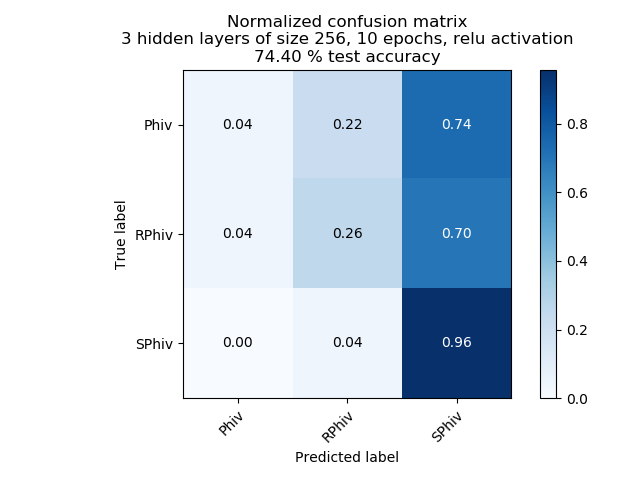
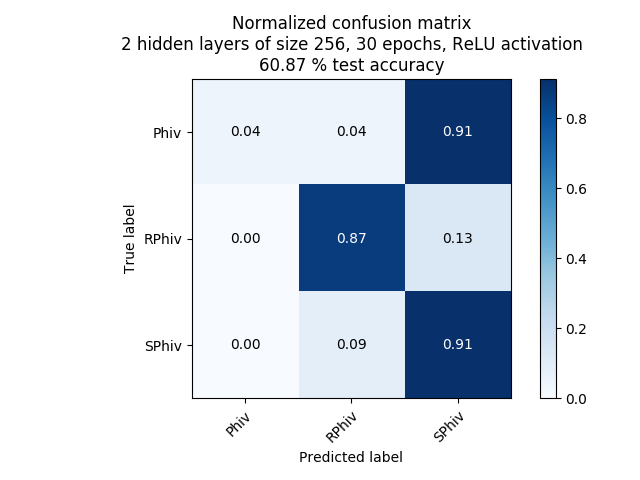
Ported neural network to torch, updated confusion matrices

diff --git a/pycode/neural_net.py b/pycode/neural_net.py
@@ -1,7 +1,3 @@
-from keras.models import Sequential
-from keras.layers import Activation
-from keras.optimizers import SGD
-from keras.layers import Dense
 from keras.utils import np_utils
 
 from sklearn.preprocessing import LabelEncoder
@@ -18,6 +14,16 @@ from collections import defaultdict
 import numpy as np
 import pandas as pd
 import matplotlib.pyplot as plt
+import gc
+
+import torch
+import torch.nn as nn
+import torch.optim as optim
+
+cuda_device = 0
+
+device_str = "cuda:{}".format(cuda_device) if torch.cuda.is_available() else "cpu"
+device = torch.device(device_str)
 
 prefix = 'cchfl'
 seq_len = 8084
@@ -26,16 +32,24 @@ input_dir = '../hivdata'
 input_dir = os.path.abspath(input_dir)
 model_output_path = '../models'
 
-types = [
+def seq_to_vec(seq):
+    vec = [onehot_dict[x] for x in seq]
+    return [x for subvec in vec for x in subvec]
+
+def load_data_file(path):
+    with open(path, 'r') as fh:
+        results = fh.read().strip().split('\n')[1:]
+    results = [x.split(',') for x in results]
+    results = map(lambda l: [x[:1] for x in l], results)
+    results = [seq_to_vec(x) for x in results]
+    return results
+
+all_types = [
     'SPhiv',
     'RPhiv',
     'Phiv',
     'LTNPhiv',
 ]
-
-model_output_path = '../models/{}'.format('_'.join(types))
-if not os.path.exists(model_output_path):
-    os.makedirs(model_output_path)
 
 f_pat = r'{}_[0-9]+-[0-9]+_{}\.dot'.format(prefix, cutoff)
 dotpattern = r'P([0-9]+) -> P([0-9]+)'
@@ -50,184 +64,173 @@ for i, x in enumerate(nucleotides):
     vec[i] = 1
     onehot_dict[x] = vec
 
-def seq_to_vec(seq):
-    vec = [onehot_dict[x] for x in seq]
-    return [x for subvec in vec for x in subvec]
+for i in range(2, len(all_types) + 1):
+    types = all_types[:i]
 
-def load_data_file(path):
-    with open(path, 'r') as fh:
-        results = fh.read().strip().split('\n')[1:]
-    results = [x.split(',') for x in results]
-    results = map(lambda l: [x[:1] for x in l], results)
-    results = [seq_to_vec(x) for x in results]
-    return results
+    model_output_path = '../models/{}'.format('_'.join(types))
+    if not os.path.exists(model_output_path):
+        os.makedirs(model_output_path)
 
-encoder = LabelEncoder()
+    encoder = LabelEncoder()
 
-train_items = []
-train_labels = []
-for type in types:
-    fpath = os.path.join(input_dir, '{}_train.dat'.format(type))
-    train_items.append(load_data_file(fpath))
-    train_labels.append([type] * len(train_items[-1]))
+    train_items = []
+    train_labels = []
+    for type in types:
+        fpath = os.path.join(input_dir, '{}_train.dat'.format(type))
+        train_items.append(load_data_file(fpath))
+        train_labels.append([type] * len(train_items[-1]))
 
-length = min([len(x) for x in train_items])
-for i in range(len(train_items)):
-    train_items[i] = train_items[i][:length]
-    train_labels[i] = train_labels[i][:length]
+    length = min([len(x) for x in train_items])
+    for i in range(len(train_items)):
+        train_items[i] = train_items[i][:length]
+        train_labels[i] = train_labels[i][:length]
 
-train_items = np.array([x for sub in train_items for x in sub])
-train_labels = [x for sub in train_labels for x in sub]
-train_labels = encoder.fit_transform(train_labels)
-train_labels = np.array(np_utils.to_categorical(train_labels))
+    train_items = np.array([x for sub in train_items for x in sub])
+    train_labels = [x for sub in train_labels for x in sub]
+    train_labels = encoder.fit_transform(train_labels)
+    # train_labels = np.array(np_utils.to_categorical(train_labels))
 
-test_items = []
-test_labels = []
-for type in types:
-    fpath = os.path.join(input_dir, '{}_test.dat'.format(type))
-    test_items.append(load_data_file(fpath))
-    test_labels.append([type] * len(test_items[-1]))
+    test_items = []
+    test_labels = []
+    for type in types:
+        fpath = os.path.join(input_dir, '{}_test.dat'.format(type))
+        test_items.append(load_data_file(fpath))
+        test_labels.append([type] * len(test_items[-1]))
 
-length = min([len(x) for x in test_items])
-for i in range(len(test_items)):
-    test_items[i] = test_items[i][:length]
-    test_labels[i] = test_labels[i][:length]
+    length = min([len(x) for x in test_items])
+    for i in range(len(test_items)):
+        test_items[i] = test_items[i][:length]
+        test_labels[i] = test_labels[i][:length]
 
-test_items = np.array([x for sub in test_items for x in sub])
-test_labels = [x for sub in test_labels for x in sub]
-test_labels = encoder.transform(test_labels)
-test_labels = np.array(np_utils.to_categorical(test_labels))
+    test_items = np.array([x for sub in test_items for x in sub])
+    test_labels = [x for sub in test_labels for x in sub]
+    test_labels = encoder.transform(test_labels)
+    # test_labels = np.array(np_utils.to_categorical(test_labels))
 
-feature_dict = defaultdict(list)
+    feature_dict = defaultdict(list)
 
-edges = set()
-nodes = set()
+    edges = set()
+    nodes = set()
 
-eseq_len = seq_len * len(nucleotides)
+    eseq_len = seq_len * len(nucleotides)
 
-orig_wt_matrix = np.zeros((eseq_len, eseq_len))
+    orig_wt_matrix = np.zeros((eseq_len, eseq_len))
 
-# for fname in files:
-#     match = re.match(pklpattern, fname)
-#     if match:
-#         with open(os.path.join(root, fname), 'rb') as fh:
-#             TR = pickle.load(fh)
-#             # print(TR)
-#             # print(TR.nodes)
-#             # print("Feature")
-#             # print(TR.feature)
-#             # print(TR.feature[1])
-#             # print(TR.TREE_LEAF)
-#             # print(TR.children_right)
-#             # print(TR.children_left)
-#             # print(TR.edge_cond_)
-#             # print(type(TR.edge_cond_))
-#             # print(TR.ACC_)
-#             # print(TR.ACCx_)
-#             result = [int(TR.feature[x][1:]) for x in TR.feature if not TR.TREE_LEAF[x]]
-#             for x in result:
-#                 orig_wt_matrix[int(match.group(1)[1:])][x] = 1
+    activations = [nn.ReLU, nn.Sigmoid]
+    activation_labels = ["ReLU", "Sigmoid"]
+    layer_sizes = [256, 512, 768, 1024, 2048]
+    num_hiddens = [1,2,3,4,5, 6]
+    num_epochs = [2, 5, 7, 10, 20, 30]
+    # layer_sizes = [256]
+    # num_hiddens = [2]
+    # num_epochs = [5]
 
-activations = ["relu", "sigmoid"]
-layer_sizes = [256, 512, 768, 1024]
-num_hiddens = [1,2,3,4,5]
-num_epochs = [2, 5, 7, 10]
-# layer_sizes = [256]
-# num_hiddens = [2]
-# num_epochs = [5]
+    results = []
 
-results = []
+    class_labels = encoder.classes_
 
-class_labels = encoder.classes_
+    trainX = torch.Tensor(train_items).to(device)
+    trainY = torch.Tensor(train_labels).to(device, dtype=torch.long)
 
-for epochs in num_epochs:
-    for activation_func in activations:
-        for layer_size in layer_sizes:
-            for num_hidden in num_hiddens:
-                model = Sequential()
-                model.add(Dense(layer_size, input_dim=eseq_len, activation=activation_func))
-                for i in range(num_hidden):
-                    model.add(Dense(layer_size, activation=activation_func))
-                model.add(Dense(len(class_labels)))
-                model.add(Activation('softmax'))
+    testX = torch.Tensor(test_items).to(device)
+    testY = torch.Tensor(test_labels).to(device, dtype=torch.long)
 
-                sgd = SGD(lr=0.01)
-                model.compile(loss="binary_crossentropy", optimizer=sgd,
-                	metrics=["accuracy"])
+    for epochs in num_epochs:
+        for a, activation_func in enumerate(activations):
+            for layer_size in layer_sizes:
+                for num_hidden in num_hiddens:
+                    layers = []
+                    layers.append(nn.Linear(eseq_len, layer_size))
+                    layers.append(activation_func())
+                    for i in range(num_hidden):
+                        layers.append(nn.Linear(layer_size, layer_size))
+                        layers.append(activation_func())
+                    layers.append(nn.Linear(layer_size, len(types)))
+                    layers.append(nn.Softmax())
+                    model = nn.Sequential(*layers)
+                    model.to(device)
+                    optimizer = optim.SGD(model.parameters(), lr=0.01, momentum=0.9)
+                    criterion = nn.CrossEntropyLoss()
+                    for epoch in range(epochs):
+                        optimizer.zero_grad()
+                        outputs = model.forward(trainX)
+                        loss = criterion(outputs, trainY)
+                        loss.backward()
+                        optimizer.step()
 
-                model.fit(np.array(train_items), np.array(train_labels), verbose=0, shuffle=True, epochs=epochs)
+                    with torch.no_grad():
+                        pred = model.forward(testX)
+                        pred = torch.argmax(pred, dim=1)
+                        total = pred.size(0)
+                        accuracy = (pred == testY).sum().item()/total
+                    # print("ACC:", accuracy)
 
-
-                loss, accuracy = model.evaluate(test_items, test_labels, verbose=0)
-
-                results.append(
-                    (
-                        model,
-                        accuracy,
-                        activation_func,
-                        layer_size,
-                        num_hidden,
-                        epochs,
+                    results.append(
+                        (
+                            model,
+                            accuracy,
+                            activation_labels[a],
+                            layer_size,
+                            num_hidden,
+                            epochs,
+                        )
                     )
-                )
+                    results.sort(key=lambda x: x[1], reverse=True)
+                    results = results[:5]
+                    gc.collect()
+
+    cmap = plt.cm.Blues
+
+    for idx in range(5):
+        model, accuracy, activation_func, layer_size, num_hidden, epochs = results[idx]
+        figname = os.path.join(model_output_path, '{}.png'.format(idx))
+        print("{}: {}/{} units/{} layers/{} epochs".format(accuracy, activation_func, layer_size, num_hidden, epochs))
+        out_fname = os.path.join(model_output_path, 'model_{}.pkl'.format(idx))
+
+        y_pred = torch.argmax(model.forward(testX), dim=1).cpu().numpy()
+
+        title = 'Normalized confusion matrix\n{} hidden layers of size {}, {} epochs, {} activation\n{:.2f} % test accuracy'.format(
+            num_hidden,
+            layer_size,
+            epochs,
+            activation_func,
+            accuracy * 100,
+        )
+        y_true = test_labels
+        cm = confusion_matrix(y_true, y_pred)
+        # Only use the labels that appear in the data
+        classes = class_labels[unique_labels(y_true, y_pred)]
+        cm = cm.astype('float') / cm.sum(axis=1)[:, np.newaxis]
+
+        fig, ax = plt.subplots()
+        im = ax.imshow(cm, interpolation='nearest', cmap=cmap)
+        ax.figure.colorbar(im, ax=ax)
+        # We want to show all ticks...
+        ax.set(xticks=np.arange(cm.shape[1]),
+               yticks=np.arange(cm.shape[0]),
+               # ... and label them with the respective list entries
+               xticklabels=classes, yticklabels=classes,
+               title=title,
+               ylabel='True label',
+               xlabel='Predicted label')
+
+        # Rotate the tick labels and set their alignment.
+        plt.setp(ax.get_xticklabels(), rotation=45, ha="right",
+                 rotation_mode="anchor")
+
+        # Loop over data dimensions and create text annotations.
+        fmt = '.2f'
+        thresh = cm.max() / 2.
+        for i in range(cm.shape[0]):
+            for j in range(cm.shape[1]):
+                ax.text(j, i, format(cm[i, j], fmt),
+                        ha="center", va="center",
+                        color="white" if cm[i, j] > thresh else "black")
+        fig.tight_layout()
 
 
-results = sorted(results, key = lambda x: x[1], reverse = True)
+        plt.savefig(figname)
+        plt.close()
 
-cmap = plt.cm.Blues
-
-for i in range(5):
-    model, accuracy, activation_func, layer_size, num_hidden, epochs = results[i]
-    figname = os.path.join(model_output_path, '{}.png'.format(i))
-    print("{}: {}/{} units/{} layers/{} epochs".format(accuracy, activation_func, layer_size, num_hidden, epochs))
-    out_fname = os.path.join(model_output_path, 'model_{}.pkl'.format(i))
-
-    y_pred = model.predict(test_items)
-
-    y_pred = np.argmax(y_pred, axis=1)
-
-    title = 'Normalized confusion matrix\n{} hidden layers of size {}, {} epochs, {} activation\n{:.2f} % test accuracy'.format(
-        num_hidden,
-        layer_size,
-        epochs,
-        activation_func,
-        accuracy * 100,
-    )
-    y_true = np.argmax(test_labels, axis=1)
-    cm = confusion_matrix(y_true, y_pred)
-    # Only use the labels that appear in the data
-    classes = class_labels[unique_labels(y_true, y_pred)]
-    cm = cm.astype('float') / cm.sum(axis=1)[:, np.newaxis]
-
-    fig, ax = plt.subplots()
-    im = ax.imshow(cm, interpolation='nearest', cmap=cmap)
-    ax.figure.colorbar(im, ax=ax)
-    # We want to show all ticks...
-    ax.set(xticks=np.arange(cm.shape[1]),
-           yticks=np.arange(cm.shape[0]),
-           # ... and label them with the respective list entries
-           xticklabels=classes, yticklabels=classes,
-           title=title,
-           ylabel='True label',
-           xlabel='Predicted label')
-
-    # Rotate the tick labels and set their alignment.
-    plt.setp(ax.get_xticklabels(), rotation=45, ha="right",
-             rotation_mode="anchor")
-
-    # Loop over data dimensions and create text annotations.
-    fmt = '.2f'
-    thresh = cm.max() / 2.
-    for i in range(cm.shape[0]):
-        for j in range(cm.shape[1]):
-            ax.text(j, i, format(cm[i, j], fmt),
-                    ha="center", va="center",
-                    color="white" if cm[i, j] > thresh else "black")
-    fig.tight_layout()
-
-
-    plt.savefig(figname)
-    plt.close()
-
-    with open(out_fname, 'wb') as fh:
-        pickle.dump(results[i], fh)
+        with open(out_fname, 'wb') as fh:
+            pickle.dump(results[idx], fh)
